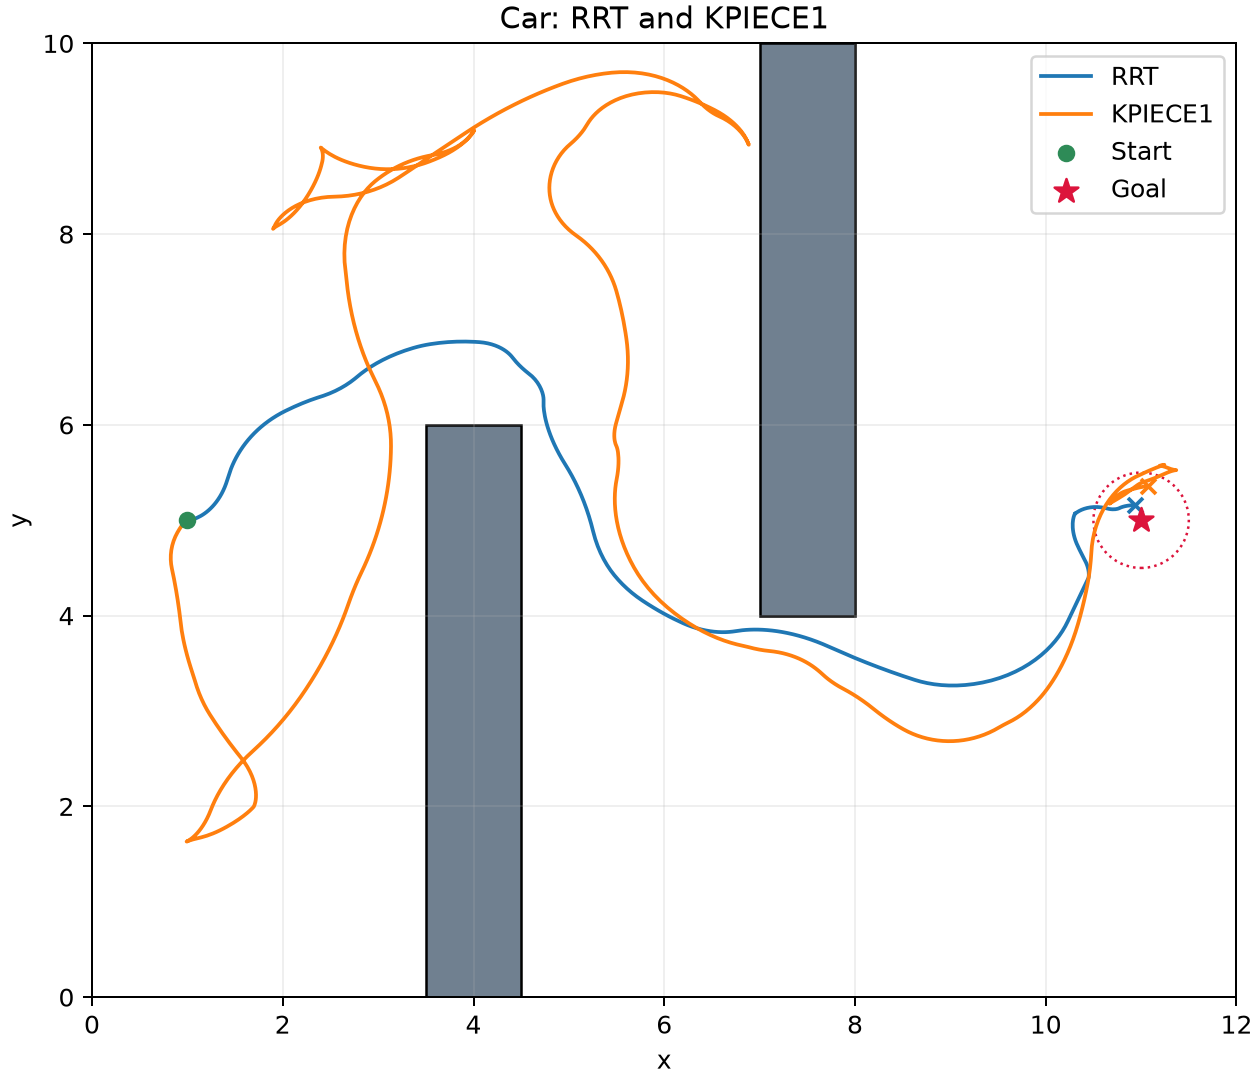
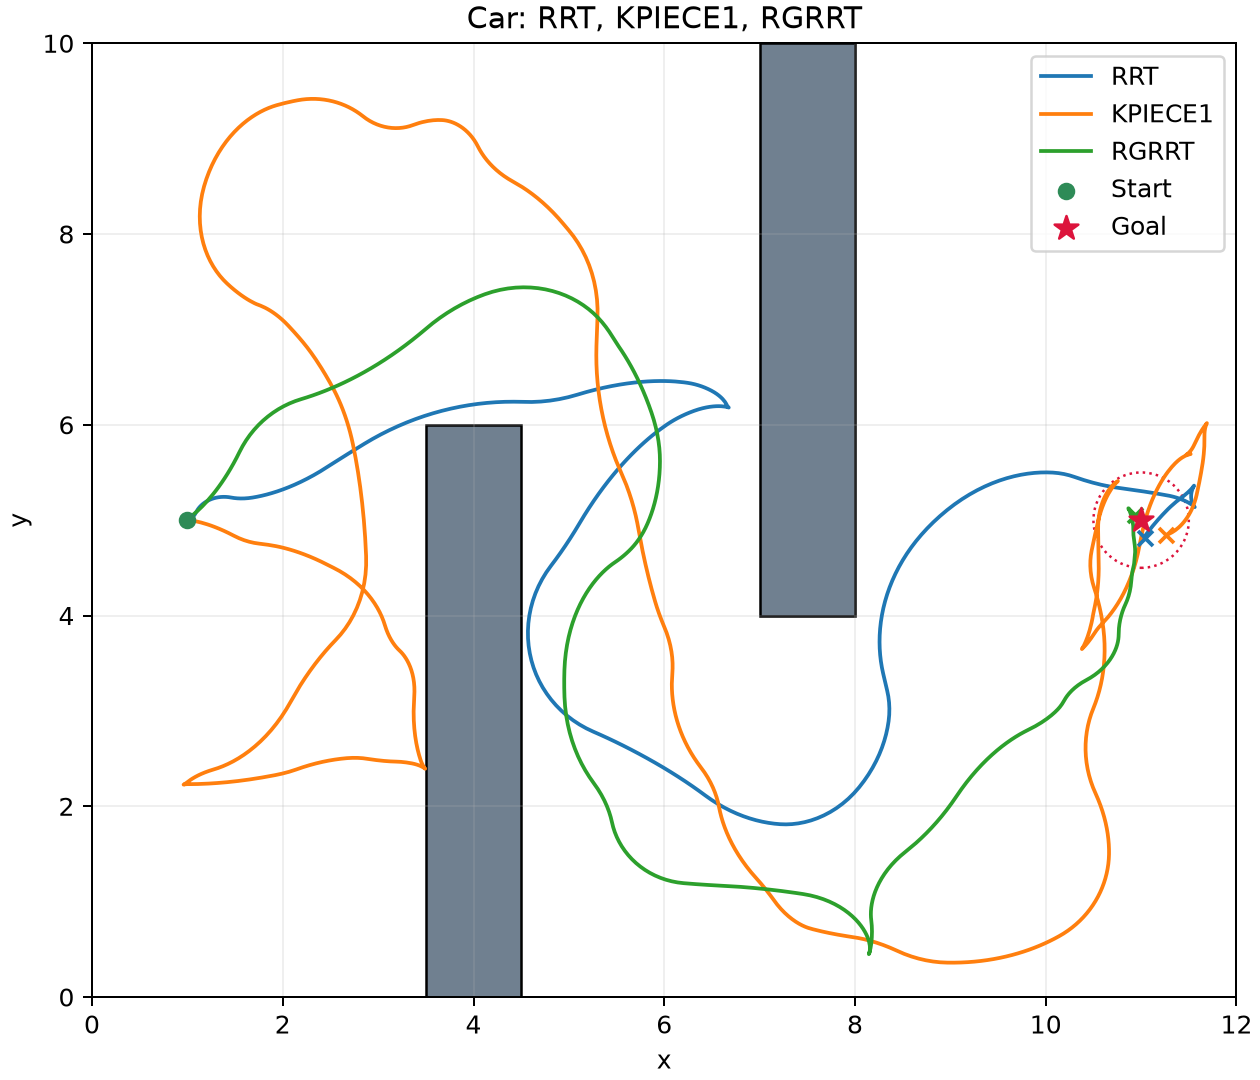
implement RG-RRT

diff --git a/project4_2026/template/src/RG-RRT.cpp b/project4_2026/template/src/RG-RRT.cpp
@@ -6,4 +6,262 @@
 
 #include "RG-RRT.h"
 
-// TODO: Implement RGRRT as described
+#include <limits>
+
+#include <ompl/base/goals/GoalSampleableRegion.h>
+#include <ompl/control/spaces/RealVectorControlSpace.h>
+#include <ompl/tools/config/SelfConfig.h>
+
+ompl::control::RGRRT::RGRRT(const SpaceInformationPtr &si) : base::Planner(si, "RGRRT")
+{
+    specs_.approximateSolutions = true;
+    siC_ = si.get();
+
+    Planner::declareParam<double>("goal_bias", this, &RGRRT::setGoalBias, &RGRRT::getGoalBias, "0.:.05:1.");
+    Planner::declareParam<unsigned int>("reach_steps", this, &RGRRT::setReachSteps, &RGRRT::getReachSteps,
+                                        "1:1:50");
+    Planner::declareParam<unsigned int>("num_controls", this, &RGRRT::setNumControls, &RGRRT::getNumControls,
+                                        "2:1:51");
+}
+
+ompl::control::RGRRT::~RGRRT()
+{
+    freeMemory();
+}
+
+void ompl::control::RGRRT::setup()
+{
+    base::Planner::setup();
+
+    // RG-RRT: R(q) is built by sweeping a RealVectorControlSpace dimension between its bounds
+    if (dynamic_cast<const RealVectorControlSpace *>(siC_->getControlSpace().get()) == nullptr)
+        throw Exception(getName(), "requires a RealVectorControlSpace");
+    if (numControls_ < 2)
+        throw Exception(getName(), "num_controls must be at least 2");
+
+    if (!nn_)
+        nn_.reset(tools::SelfConfig::getDefaultNearestNeighbors<Motion *>(this));
+    nn_->setDistanceFunction([this](const Motion *a, const Motion *b) { return distanceFunction(a, b); });
+}
+
+void ompl::control::RGRRT::clear()
+{
+    Planner::clear();
+    sampler_.reset();
+    controlSampler_.reset();
+    freeMemory();
+    if (nn_)
+        nn_->clear();
+    lastGoalMotion_ = nullptr;
+}
+
+void ompl::control::RGRRT::freeMemory()
+{
+    if (nn_)
+    {
+        std::vector<Motion *> motions;
+        nn_->list(motions);
+        for (auto &motion : motions)
+        {
+            if (motion->state)
+                si_->freeState(motion->state);
+            if (motion->control)
+                siC_->freeControl(motion->control);
+            // RG-RRT: the reachable states are owned by their motion
+            for (auto *state : motion->reachable)
+                si_->freeState(state);
+            delete motion;
+        }
+    }
+}
+
+void ompl::control::RGRRT::computeReachableSet(Motion *motion) const
+{
+    const auto &bounds = siC_->getControlSpace()->as<RealVectorControlSpace>()->getBounds();
+
+    Control *control = siC_->allocControl();
+    double *u = control->as<RealVectorControlSpace::ControlType>()->values;
+
+    // Hold all other control dimensions at the middle of their range (0 for symmetric bounds)
+    for (std::size_t d = 1; d < bounds.low.size(); ++d)
+        u[d] = 0.5 * (bounds.low[d] + bounds.high[d]);
+
+    // Sweep dimension 0 over numControls_ evenly spaced values, e.g. {-3, -2.4, ..., 2.4, 3} for torque 3
+    const double step = (bounds.high[0] - bounds.low[0]) / (numControls_ - 1);
+    for (unsigned int i = 0; i < numControls_; ++i)
+    {
+        u[0] = bounds.low[0] + i * step;
+
+        base::State *result = si_->allocState();
+        siC_->propagate(motion->state, control, reachSteps_, result);
+
+        // An invalid state is certainly not reachable
+        if (si_->isValid(result))
+            motion->reachable.push_back(result);
+        else
+            si_->freeState(result);
+    }
+
+    siC_->freeControl(control);
+}
+
+bool ompl::control::RGRRT::canMoveToward(const Motion *motion, const base::State *target) const
+{
+    const double nearDistance = si_->distance(motion->state, target);
+    for (const auto *state : motion->reachable)
+        if (si_->distance(state, target) < nearDistance)
+            return true;
+    return false;
+}
+
+ompl::base::PlannerStatus ompl::control::RGRRT::solve(const base::PlannerTerminationCondition &ptc)
+{
+    checkValidity();
+    base::Goal *goal = pdef_->getGoal().get();
+    auto *goal_s = dynamic_cast<base::GoalSampleableRegion *>(goal);
+
+    while (const base::State *st = pis_.nextStart())
+    {
+        auto *motion = new Motion(siC_);
+        si_->copyState(motion->state, st);
+        siC_->nullControl(motion->control);
+        computeReachableSet(motion);  // RG-RRT
+        nn_->add(motion);
+    }
+
+    if (nn_->size() == 0)
+    {
+        OMPL_ERROR("%s: There are no valid initial states!", getName().c_str());
+        return base::PlannerStatus::INVALID_START;
+    }
+
+    if (!sampler_)
+        sampler_ = si_->allocStateSampler();
+    if (!controlSampler_)
+        controlSampler_ = siC_->allocDirectedControlSampler();
+
+    OMPL_INFORM("%s: Starting planning with %u states already in datastructure", getName().c_str(), nn_->size());
+
+    Motion *solution = nullptr;
+    Motion *approxsol = nullptr;
+    double approxdif = std::numeric_limits<double>::infinity();
+
+    auto *rmotion = new Motion(siC_);
+    base::State *rstate = rmotion->state;
+    Control *rctrl = rmotion->control;
+
+    while (ptc == false)
+    {
+        // Sample a random state (with goal biasing)
+        if (goal_s && rng_.uniform01() < goalBias_ && goal_s->canSample())
+            goal_s->sampleGoal(rstate);
+        else
+            sampler_->sampleUniform(rstate);
+
+        // Find the closest state in the tree
+        Motion *nmotion = nn_->nearest(rmotion);
+
+        // RG-RRT: discard the sample if no reachable state of q_near gets closer to it than q_near itself.
+        // This must happen before sampleTo(), which overwrites rstate with the state actually reached.
+        if (!canMoveToward(nmotion, rstate))
+            continue;
+
+        // Sample a random control that attempts to go towards the random state, and also sample a control duration
+        unsigned int cd = controlSampler_->sampleTo(rctrl, nmotion->control, nmotion->state, rstate);
+
+        if (cd >= siC_->getMinControlDuration())
+        {
+            // Create a motion
+            auto *motion = new Motion(siC_);
+            si_->copyState(motion->state, rstate);
+            siC_->copyControl(motion->control, rctrl);
+            motion->steps = cd;
+            motion->parent = nmotion;
+            computeReachableSet(motion);  // RG-RRT
+
+            nn_->add(motion);
+            double dist = 0.0;
+            bool solv = goal->isSatisfied(motion->state, &dist);
+            if (solv)
+            {
+                approxdif = dist;
+                solution = motion;
+                break;
+            }
+            if (dist < approxdif)
+            {
+                approxdif = dist;
+                approxsol = motion;
+            }
+        }
+    }
+
+    bool solved = false;
+    bool approximate = false;
+    if (solution == nullptr)
+    {
+        solution = approxsol;
+        approximate = true;
+    }
+
+    if (solution != nullptr)
+    {
+        lastGoalMotion_ = solution;
+
+        // Construct the solution path
+        std::vector<Motion *> mpath;
+        while (solution != nullptr)
+        {
+            mpath.push_back(solution);
+            solution = solution->parent;
+        }
+
+        // Set the solution path
+        auto path(std::make_shared<PathControl>(si_));
+        for (int i = mpath.size() - 1; i >= 0; --i)
+            if (mpath[i]->parent)
+                path->append(mpath[i]->state, mpath[i]->control, mpath[i]->steps * siC_->getPropagationStepSize());
+            else
+                path->append(mpath[i]->state);
+        solved = true;
+        pdef_->addSolutionPath(path, approximate, approxdif, getName());
+    }
+
+    if (rmotion->state)
+        si_->freeState(rmotion->state);
+    if (rmotion->control)
+        siC_->freeControl(rmotion->control);
+    delete rmotion;
+
+    OMPL_INFORM("%s: Created %u states", getName().c_str(), nn_->size());
+
+    return {solved, approximate};
+}
+
+void ompl::control::RGRRT::getPlannerData(base::PlannerData &data) const
+{
+    Planner::getPlannerData(data);
+
+    std::vector<Motion *> motions;
+    if (nn_)
+        nn_->list(motions);
+
+    double delta = siC_->getPropagationStepSize();
+
+    if (lastGoalMotion_)
+        data.addGoalVertex(base::PlannerDataVertex(lastGoalMotion_->state));
+
+    for (auto m : motions)
+    {
+        if (m->parent)
+        {
+            if (data.hasControls())
+                data.addEdge(base::PlannerDataVertex(m->parent->state), base::PlannerDataVertex(m->state),
+                             control::PlannerDataEdgeControl(m->control, m->steps * delta));
+            else
+                data.addEdge(base::PlannerDataVertex(m->parent->state), base::PlannerDataVertex(m->state));
+        }
+        else
+            data.addStartVertex(base::PlannerDataVertex(m->state));
+    }
+}

diff --git a/project4_2026/template/src/plot_trajectories.py b/project4_2026/template/src/plot_trajectories.py
@@ -1,5 +1,5 @@
 #!/usr/bin/env python3
-"""After running all eight menu combinations, run: python src/plot_trajectories.py"""
+"""After running all twelve menu combinations, run: python src/plot_trajectories.py"""
 from pathlib import Path
 import matplotlib
 matplotlib.use('Agg')
@@ -8,7 +8,7 @@ from matplotlib.patches import Rectangle
 import numpy as np
 
 output = Path(__file__).resolve().parents[1] / 'output'
-planners = ['RRT', 'KPIECE1']
+planners = ['RRT', 'KPIECE1', 'RGRRT']
 torques = [3, 5, 10]
 files = [output / f'pendulum_{p}_tau{t}.txt' for p in planners for t in torques]
 files += [output / f'car_{p}.txt' for p in planners] + [output / 'street.txt']
@@ -18,7 +18,7 @@ if missing:
 
 plots = output / 'plots'
 plots.mkdir(exist_ok=True)
-fig, axes = plt.subplots(2, 3, figsize=(12, 7), layout='constrained')
+fig, axes = plt.subplots(len(planners), 3, figsize=(12, 3.5 * len(planners)), layout='constrained')
 for row, planner in enumerate(planners):
     for col, torque in enumerate(torques):
         states = np.loadtxt(output / f'pendulum_{planner}_tau{torque}.txt', ndmin=2)
@@ -48,7 +48,7 @@ ax.scatter(1, 5, color='seagreen', label='Start', zorder=3)
 ax.scatter(11, 5, color='crimson', marker='*', s=100, label='Goal', zorder=3)
 # The full goal condition also includes heading and speed errors.
 ax.add_patch(plt.Circle((11, 5), 0.5, fill=False, linestyle=':', color='crimson'))
-ax.set(title='Car: RRT and KPIECE1', xlabel='x', ylabel='y',
+ax.set(title='Car: ' + ', '.join(planners), xlabel='x', ylabel='y',
        xlim=(0, 12), ylim=(0, 10), aspect='equal')
 ax.grid(alpha=0.2)
 ax.legend()

diff --git a/project4_2026/template/src/Project4Car.cpp b/project4_2026/template/src/Project4Car.cpp
@@ -110,10 +110,7 @@ bool planCar(oc::SimpleSetupPtr &ss, int choice)
     else if (choice == 2)
         ss->setPlanner(std::make_shared<oc::KPIECE1>(si));
     else
-    {
-        std::cerr << "RG-RRT not implemented yet\n";
-        return false;
-    }
+        ss->setPlanner(std::make_shared<oc::RGRRT>(si));
 
     ss->setup();
     std::cout << "Car: " << ss->getPlanner()->getName() << '\n';
@@ -188,17 +185,14 @@ int main(int /* argc */, char ** /* argv */)
             if (!(std::cin >> planner)) return 1;
         } while (planner < 1 || planner > 3);
 
-        if (planner != 3)
-        {
-            std::error_code error;
-            std::filesystem::create_directories("output", error);
-            std::ofstream street("output/street.txt");
-            if (error || !street) { std::cerr << "Cannot write street.txt\n"; return 1; }
-            for (const auto &r : obstacles)
-                street << r.x << ' ' << r.y << ' ' << r.width << ' ' << r.height << '\n';
-            street.close();
-            if (!street) return 1;
-        }
+        std::error_code error;
+        std::filesystem::create_directories("output", error);
+        std::ofstream street("output/street.txt");
+        if (error || !street) { std::cerr << "Cannot write street.txt\n"; return 1; }
+        for (const auto &r : obstacles)
+            street << r.x << ' ' << r.y << ' ' << r.width << ' ' << r.height << '\n';
+        street.close();
+        if (!street) return 1;
         return planCar(ss, planner) ? 0 : 1;
     }
     // Benchmarking

diff --git a/project4_2026/template/src/Project4Pendulum.cpp b/project4_2026/template/src/Project4Pendulum.cpp
@@ -120,10 +120,7 @@ bool planPendulum(oc::SimpleSetupPtr &ss, int choice)
     else if (choice == 2)
         ss->setPlanner(std::make_shared<oc::KPIECE1>(si));
     else
-    {
-        std::cerr << "RG-RRT not implemented yet\n";
-        return false;
-    }
+        ss->setPlanner(std::make_shared<oc::RGRRT>(si));
 
     ss->setup();
     std::cout << "Pendulum: " << ss->getPlanner()->getName() << '\n';
